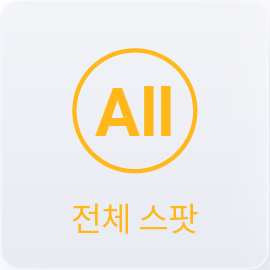
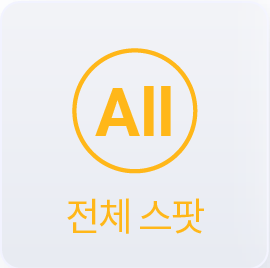
카테고리 버튼 수정

diff --git a/final/src/components/CategoryInMap.js b/final/src/components/CategoryInMap.js
@@ -445,7 +445,7 @@ const CategoryInMap = () => {
             {/* 전체스팟 찾기 */}
             {is_all ? ( // is_category_in_map 리스트 안에 모든 카테고리가 다 들어 있다면
               <AllSpotsSelected
-                // src={AllBtn}
+                src={AllBtn}
                 onClick={(e) => {
                   e.preventDefault();
                   e.stopPropagation();
@@ -455,7 +455,7 @@ const CategoryInMap = () => {
               />
             ) : (
               <AllSpots
-                // src={AllBtn}
+                src={AllBtn}
                 onClick={(e) => {
                   e.preventDefault();
                   e.stopPropagation();
@@ -481,7 +481,7 @@ const CategoryInMap = () => {
             )}
             {/* 내스팟 찾기 */}
               <MyPostSpots
-                // src={AllMyPostBtn}
+                src={AllMyPostBtn}
                 onClick={(e) => {
                   e.preventDefault();
                   e.stopPropagation();
@@ -503,7 +503,7 @@ const CategoryInMap = () => {
               />
             {/* 내좋아요스팟 찾기 */}
               <MyLikeSpots
-                // src={AllMyLikeBtn}
+                src={AllMyLikeBtn}
                 onClick={(e) => {
                   e.preventDefault();
                   e.stopPropagation();
@@ -921,7 +921,7 @@ const CategoryInMap = () => {
             {/* 전체스팟 찾기 */}
             {is_all ? ( // is_category_in_map 리스트 안에 모든 카테고리가 다 들어 있다면
               <AllSpotsSelected
-                // src={AllBtn}
+                src={AllBtn}
                 onClick={(e) => {
                   e.preventDefault();
                   e.stopPropagation();
@@ -931,7 +931,7 @@ const CategoryInMap = () => {
               />
             ) : (
               <AllSpots
-                // src={AllBtn}
+                src={AllBtn}
                 onClick={(e) => {
                   e.preventDefault();
                   e.stopPropagation();
@@ -960,7 +960,7 @@ const CategoryInMap = () => {
             {/* 내스팟 찾기 */}
             {showMine ? (
               <MyPostSpotsSelected
-                // src={AllMyPostBtn}
+                src={AllMyPostBtn}
                 onClick={(e) => {
                   e.preventDefault();
                   e.stopPropagation();
@@ -969,7 +969,7 @@ const CategoryInMap = () => {
               />
             ) : (
               <MyPostSpots
-                // src={AllMyPostBtn}
+                src={AllMyPostBtn}
                 onClick={(e) => {
                   e.preventDefault();
                   e.stopPropagation();
@@ -994,7 +994,7 @@ const CategoryInMap = () => {
             {/* 내좋아요스팟 찾기 */}
             {showLike ? (
               <MyLikeSpotsSelected
-                // src={AllMyLikeBtn}
+                src={AllMyLikeBtn}
                 onClick={(e) => {
                   e.preventDefault();
                   e.stopPropagation();
@@ -1003,7 +1003,7 @@ const CategoryInMap = () => {
               />
             ) : (
               <MyLikeSpots
-                // src={AllMyLikeBtn}
+                src={AllMyLikeBtn}
                 onClick={(e) => {
                   e.preventDefault();
                   e.stopPropagation();
@@ -1140,12 +1140,12 @@ const Spots = styled.img`
   /* box-shadow: 4px 4px 5px 1px rgba(0.2, 0.2, 0.2, 0.2); */
 `;
 
-const AllSpots = styled.div`
+const AllSpots = styled.img`
   width: 68px;
   height: 68px;
   background-color: #F2F3F7;
   border-radius: 5px;
-  background-image: url("https://i.postimg.cc/1XJmZ6gv/01-All-Spots-Btn.png");
+  /* background-image: url("https://i.postimg.cc/1XJmZ6gv/01-All-Spots-Btn.png"); */
   background-size: cover;
   object-fit: cover;
   box-sizing: border-box;
@@ -1155,13 +1155,13 @@ const AllSpots = styled.div`
   /* box-shadow: 4px 4px 5px 1px rgba(0.2, 0.2, 0.2, 0.2); */
 `;
 
-const AllSpotsSelected = styled.div`
+const AllSpotsSelected = styled.img`
   border: 3px solid #ffb719;
   width: 68px;
   height: 68px;
   background-color: #F2F3F7;
   border-radius: 5px;
-  background-image: url("https://i.postimg.cc/1XJmZ6gv/01-All-Spots-Btn.png");
+  /* background-image: url("https://i.postimg.cc/1XJmZ6gv/01-All-Spots-Btn.png"); */
   background-size: cover;
   object-fit: cover;
   box-sizing: border-box;
@@ -1170,12 +1170,12 @@ const AllSpotsSelected = styled.div`
   box-shadow: 3px 3px 5px 1px rgba(0.1, 0.2, 0.2, 0.2);
 `;
 
-const MyPostSpots = styled.div`
+const MyPostSpots = styled.img`
   width: 68px;
   height: 68px;
   background-color: #F2F3F7;
   border-radius: 5px;
-  background-image: url("https://i.postimg.cc/MTFkb8Lp/02-All-My-Posts-Btn.png");
+  /* background-image: url("https://i.postimg.cc/MTFkb8Lp/02-All-My-Posts-Btn.png"); */
   background-size: cover;
   object-fit: cover;
   box-sizing: border-box;
@@ -1191,7 +1191,7 @@ const MyPostSpotsSelected = styled.img`
   height: 68px;
   background-color: #F2F3F7;
   border-radius: 5px;
-  background-image: url("https://i.postimg.cc/MTFkb8Lp/02-All-My-Posts-Btn.png");
+  /* background-image: url("https://i.postimg.cc/MTFkb8Lp/02-All-My-Posts-Btn.png"); */
   background-size: cover;
   object-fit: cover;
   box-sizing: border-box;
@@ -1200,12 +1200,12 @@ const MyPostSpotsSelected = styled.img`
   box-shadow: 3px 3px 5px 1px rgba(0.1, 0.2, 0.2, 0.2);
 `;
 
-const MyLikeSpots = styled.div`
+const MyLikeSpots = styled.img`
   width: 68px;
   height: 68px;
   background-color: #F2F3F7;
   border-radius: 5px;
-  background-image: url("https://i.postimg.cc/zvs96F8m/03-All-My-Likes-Btn.png");
+  /* background-image: url("https://i.postimg.cc/zvs96F8m/03-All-My-Likes-Btn.png"); */
   background-size: cover;
   object-fit: cover;
   box-sizing: border-box;
@@ -1221,7 +1221,7 @@ const MyLikeSpotsSelected = styled.img`
   height: 68px;
   background-color: #F2F3F7;
   border-radius: 5px;
-  background-image: url("https://i.postimg.cc/zvs96F8m/03-All-My-Likes-Btn.png");
+  /* background-image: url("https://i.postimg.cc/zvs96F8m/03-All-My-Likes-Btn.png"); */
   background-size: cover;
   object-fit: cover;
   box-sizing: border-box;
@@ -1229,109 +1229,3 @@ const MyLikeSpotsSelected = styled.img`
   margin-bottom: 8px;
   box-shadow: 3px 3px 5px 1px rgba(0.1, 0.2, 0.2, 0.2);
 `;
-
-// const AllSpots = styled.img`
-// position:absolute;
-//   width: 80px;
-//   height: 80px;
-//   /* background-image: url('https://i.postimg.cc/q7Qcs4JC/button-01.png'); */
-//   /* background-size: cover; */
-//   /* background-color: #F2F3F7; */
-//   background-color: #ff8000;
-//   box-sizing: border-box;
-//   cursor: pointer;
-//   /* padding: 4px; */
-//   object-fit: cover;
-// `;
-
-// const MyPostSpots = styled.img`
-// position:absolute;
-//   width: 100px;
-//   height: 100px;
-//   /* background-image: url('https://i.postimg.cc/dDMGs0Bg/button-02.png'); */
-//   background-size: cover;
-//   /* background-color: #F2F3F7; */
-//   background-color: #0000a0;
-//   box-sizing: border-box;
-//   cursor: pointer;
-//   object-fit: cover;
-//   margin: auto;
-// `;
-
-// const MyLikeSpots = styled.img`
-// position:absolute;
-//   width: 100px;
-//   height: 100px;
-//   /* background-image: url('https://i.postimg.cc/wv7W37XB/button-03.png'); */
-//   background-size: cover;
-//   /* background-color: #F2F3F7; */
-//   background-color: #ff0080;
-//   box-sizing: border-box;
-//   cursor: pointer;
-//   object-fit: cover;
-// `;
-
-// const AllSpotsSelected = styled.img`
-//   width: 100px;
-//   height: 100px;
-//   /* width: 108px;
-//   height: 108px; */
-//   /* background-color: white; */
-//   background-color: #F2F3F7;
-//   border-radius: 5px;
-//   box-sizing: border-box;
-//   /* border: 3px solid rgb(255, 183, 25); */
-//   cursor: pointer;
-//   /* margin: 1px; */
-//   /* background-size: cover; */
-//   /* box-shadow: 4px 4px 5px 1px rgba(0.2, 0.2, 0.2, 0.2); */
-// `;
-
-// const MyPostSpotsSelected = styled.img`
-//   width: 85px;
-//   height: 85px;
-//   /* width: 108px;
-//   height: 108px; */
-//   /* background-color: white; */
-//   background-color: #F2F3F7;
-//   border-radius: 5px;
-//   box-sizing: border-box;
-//   /* border: 3px solid rgb(27, 38, 133); */
-//   cursor: pointer;
-//   /* margin: 1px; */
-//   /* background-size: cover; */
-//   /* box-shadow: 4px 4px 5px 1px rgba(0.2, 0.2, 0.2, 0.2); */
-// `;
-
-// const MyLikeSpotsSelected = styled.img`
-//   width: 85px;
-//   height: 85px;
-//   /* width: 108px;
-//   height: 108px; */
-//   /* background-color: white; */
-//   background-color: #F2F3F7;
-//   border-radius: 5px;
-//   box-sizing: border-box;
-//   /* border: 3px solid rgb(253, 133, 152); */
-//   cursor: pointer;
-//   /* margin: 1px; */
-//   /* background-size: cover; */
-//   /* box-shadow: 4px 4px 5px 1px rgba(0.2, 0.2, 0.2, 0.2); */
-// `;
-
-// const MyLikeSpotstest = styled.div`
-//   width: 90px;
-//   height: 90px;
-//   background-image: url('https://i.postimg.cc/wv7W37XB/button-03.png');
-//   /* width: 108px;
-//   height: 108px; */
-//   /* background-color: white; */
-//   background-color: #F2F3F7;
-//   /* border-radius: 5px; */
-//   box-sizing: border-box;
-//   /* border: none; */
-//   cursor: pointer;
-//   padding: 2px;
-//   /* background-size: cover; */
-//   /* box-shadow: 4px 4px 5px 1px rgba(0.2, 0.2, 0.2, 0.2); */
-// `;
